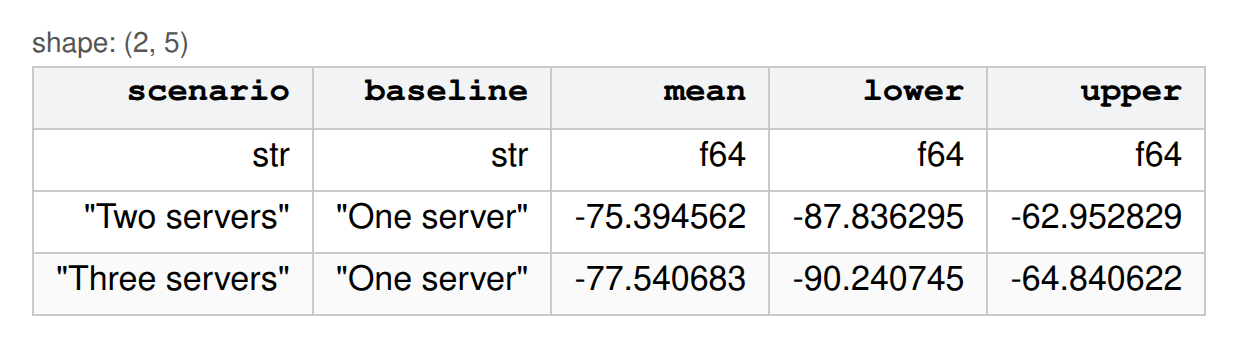
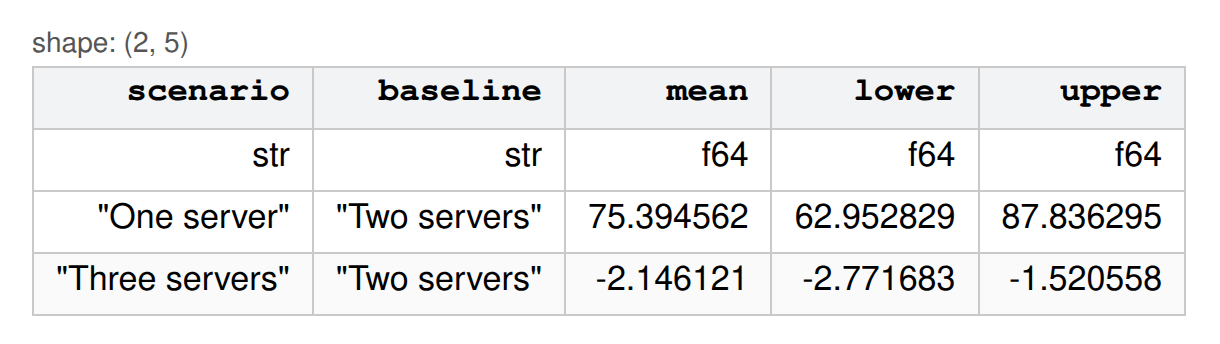
Apply the owner's answers to the core and machining videos
Core Part 6 now pairs against Two servers, reads the third server's
difference, and compares the paired and unpaired interval widths. The
core capture records the Check-in interval. The machining video states
its single routing, says what completed_at_close measures, shows
FlowSim's relocation interval against two each, and zooms the CNC
resource chart to minutes 250 to 400. A closing review checkpoint
found no new defects.

Claude-Session: https://claude.ai/code/session_01WVV6YrZfjab2pasYytB4Qi

diff --git a/manim/flowsim-core/flowsim_core.py b/manim/flowsim-core/flowsim_core.py
@@ -23,7 +23,9 @@ come from ../shared/explainer.py.
 """
 
 import ast
+import math
 import re
+import statistics
 from fractions import Fraction
 from pathlib import Path
 
@@ -63,6 +65,7 @@ from flowsim_video import (
     ROOT,
     CodeScene,
     SERVICE_ORANGE,
+    T95,
     WAIT_BLUE,
     call_keywords,
     close,
@@ -191,24 +194,38 @@ assert close(WAIT_MEAN, REPS["service_mean"], 1e-9)
 assert close(WAIT_LOWER, REPS["service_lower"], 1e-9)
 assert close(WAIT_UPPER, REPS["service_upper"], 1e-9)
 assert REPS["confidence"] == 0.95
+# The waits table also shows Check-in's interval.
+assert all(close(a, b, 1e-9) for a, b in zip(t_interval(REPS["checkin_runs"]), REPS["checkin_interval"]))
 
-# Paired comparison of one, two, and three Service servers (snippets/compare.py).
+# Paired comparison of one, two, and three Service servers against two (snippets/compare.py).
 COMPARE_SNIPPET = file_lines(SNIPPETS / "compare.py")
 COMPARED_SERVERS = [int(n) for n in re.findall(r"service_network\(service_capacity=(\d+)\)", "\n".join(COMPARE_SNIPPET))]
 assert COMPARED_SERVERS == [1, 2, 3]
+BASELINE = re.search(r'differences\(baseline="([^"]+)"\)', "\n".join(COMPARE_SNIPPET))[1]
+assert 'baseline="' + BASELINE + '",' in COMPARE_SNIPPET[-2]
 COMPARE = CAPTURED["compare"]
 SCENARIOS = list(COMPARE["runs"])
 assert SCENARIOS == ["One server", "Two servers", "Three servers"]
-assert COMPARE["same_seeds"] is True and COMPARE["baseline"] == ["One server"]
+assert COMPARE["same_seeds"] is True and COMPARE["baseline"] == [BASELINE] == ["Two servers"]
 MEANS = {}
 for name in SCENARIOS:
     MEANS[name] = t_interval(COMPARE["runs"][name])
     assert all(close(a, b, 1e-9) for a, b in zip(MEANS[name], COMPARE["means"][name]))
 DIFFERENCES = {}
-for name in SCENARIOS[1:]:
-    paired = [b - a for a, b in zip(COMPARE["runs"]["One server"], COMPARE["runs"][name])]
+for name in SCENARIOS:
+    if name == BASELINE:
+        continue
+    paired = [b - a for a, b in zip(COMPARE["runs"][BASELINE], COMPARE["runs"][name])]
     DIFFERENCES[name] = t_interval(paired)
     assert all(close(a, b, 1e-9) for a, b in zip(DIFFERENCES[name], COMPARE["differences"][name]))
+assert list(DIFFERENCES) == list(COMPARE["differences"])
+# The same runs treated as independent samples: a two-sample Student t interval with
+# 38 degrees of freedom. Both staffings see the same days, so pairing narrows it.
+_two, _three = COMPARE["runs"]["Two servers"], COMPARE["runs"]["Three servers"]
+UNPAIRED_HALF = T95[2 * DAYS - 2] * math.sqrt((statistics.variance(_two) + statistics.variance(_three)) / DAYS)
+PAIRED_HALF = (DIFFERENCES["Three servers"][2] - DIFFERENCES["Three servers"][1]) / 2
+assert PAIRED_HALF < UNPAIRED_HALF
+assert f"{UNPAIRED_HALF:.2f}" == "0.74" and f"{PAIRED_HALF:.2f}" == "0.63"
 # comparison.intervals() and differences() default to mean total wait, and differences()
 # subtracts the first named scenario (flowsim/comparison.py).
 _comparison = ast.parse((LIBRARY / "comparison.py").read_text())
@@ -220,8 +237,8 @@ for _node in ast.walk(_comparison):
         _defaults[_node.name] = {k: ast.literal_eval(v) for k, v in {**_positional, **_kwonly}.items() if v is not None}
 assert _defaults["intervals"]["metric"] == _defaults["differences"]["metric"] == "mean_total_wait"
 assert "self.baseline = next(iter(experiments))" in (LIBRARY / "comparison.py").read_text()
-# Two servers lower mean total wait on every day's pairing, so the interval sits below 0.
-assert DIFFERENCES["Two servers"][2] < 0
+# A third server lowers mean total wait, and its whole interval sits below 0.
+assert DIFFERENCES["Three servers"][2] < 0
 
 # The extension tour quotes README blocks that capture.py ran (load_captured checked
 # that each block is unchanged since).
@@ -740,24 +757,28 @@ class Part6Compare(CoreScene):
         self.say("intervals() reports mean total wait by default. Total wait adds a customer's waits at both stations.")
         table = self.code_and_table(lines, "manim/flowsim-core/snippets/compare.py", HERE, CAPTURED, "means", size=20, max_width=7.5)
         self.pause("means")
-        one, two = MEANS["One server"][0], MEANS["Two servers"][0]
-        self.say(f"One server averages {one:.1f} minutes of total wait, and two servers {two:.1f}.")
+        one, two, three = (MEANS[name][0] for name in SCENARIOS)
+        self.say(f"One server averages {one:.1f} minutes of total wait. Two servers average {two:.1f}, three {three:.1f}.")
         self.pause("means-read")
 
-        lines = code_lines_of(compare_lines, "paired = comparison.differences().select(", 7)
-        self.say(f"differences subtracts the first scenario, {SCENARIOS[0]}, within each day. baseline= names another.")
+        lines = code_lines_of(compare_lines, f'paired = comparison.differences(baseline="{BASELINE}").select(', 7)
+        self.say(f"differences subtracts the baseline, {BASELINE}, within each day. Without baseline=, it uses the first scenario.")
         table = self.code_and_table(lines, "manim/flowsim-core/snippets/compare.py", HERE, CAPTURED, "paired", size=20, max_width=9.5, drop=(table,))
         self.pause("paired")
-        self.say("A negative difference means less waiting than with one server.")
+        self.say("A negative difference means less waiting than with two servers.")
         self.pause("pairing")
-        mean, lower, upper = DIFFERENCES["Two servers"]
+        mean, lower, upper = DIFFERENCES["Three servers"]
         self.say(
-            f"Two servers change mean total wait by {signed(mean)} minutes. "
+            f"A third server changes mean total wait by {signed(mean)} minutes. "
             f"The {REPS['confidence']:.0%} CI is {signed(lower)} to {signed(upper)}.",
         )
         self.pause("paired-read")
+        self.say("Both staffings see the same busy and quiet days. Pairing cancels that shared noise.")
+        self.pause("shared-days")
+        self.say(f"Unpaired, these runs give a CI half-width of {UNPAIRED_HALF:.2f} minutes. Pairing narrows it to {PAIRED_HALF:.2f}.")
+        self.pause("paired-width")
 
-        self.say(f"comparison.viewer saves these intervals as one offline page. Both rows compare with {SCENARIOS[0]}, not with each other.")
+        self.say(f"comparison.viewer saves these intervals as one offline page. Both rows compare with {BASELINE}, not with each other.")
         self.clear_stage()
         self.panel = None
         self.band = None

diff --git a/manim/machining-line/machining_line.py b/manim/machining-line/machining_line.py
@@ -167,6 +167,15 @@ assert round(float(CNC_PART), 2) == 7.33 and round(float(CNC_WITH_FAILURES)) == 
 WITH_FAILURES = {**CAPACITY, "CNC": CNC_WITH_FAILURES}
 BOTTLENECK = min(WITH_FAILURES, key=WITH_FAILURES.get)
 readme_states("The CNC machines are the bottleneck")
+# Every blank takes one route, saw to pack: no branch sends a part elsewhere, and FlowSim
+# has no rework loops (README "Operations examples" and "Scope and limits").
+readme_states("every blank follows the same routing")
+readme_states("rework loops are not implemented")
+_line_text = "\n".join(LINE_CODE)
+assert _line_text.count("model.route(") == 1 and "model.branch(" not in _line_text
+# The CNC resource chart is captured zoomed to these minutes of day 1.
+CNC_WINDOW = CAPTURED["cnc_window"]
+assert CNC_WINDOW == [250, 400] and CNC_WINDOW[1] <= SHIFT
 assert BOTTLENECK == "CNC"
 assert RELEASED > max(WITH_FAILURES.values())
 
@@ -190,6 +199,12 @@ for name in SCENARIOS[1:]:
     assert all(close(a, b) for a, b in zip(GAINS[name], CAPTURED["gains"][name]))
 MOVE = paired("Five before Assembly", "Two each")
 NO_FAILURES = paired("Two each, no CNC failures", "Two each")
+# snippets/line.py also asks FlowSim for these pairings against two each.
+MOVED = CAPTURED["moved"]
+assert list(MOVED) == ["No buffers", "Five before Assembly", "Two each, no CNC failures"]
+assert all(close(a, b) for a, b in zip(MOVE, MOVED["Five before Assembly"]))
+assert all(close(a, b) for a, b in zip(NO_FAILURES, MOVED["Two each, no CNC failures"]))
+assert close(MOVED["No buffers"][0], -GAINS["Two each"][0])
 # README "A saturated machining line": two spaces in front of each station add more than ten
 # parts per shift relative to no buffers, moving those spaces in front of assembly changes
 # output by less than one part, and removing the CNC failures adds about as many parts again.
@@ -320,6 +335,8 @@ class Part1Line(CodeScene):
         self.pause("line")
         self.say("A station has identical servers and one line. CNC (computer numerical control) is automated cutting.")
         self.pause("station")
+        self.say("Every blank follows this one routing. No part is scrapped or reworked.")
+        self.pause("routing")
 
         lines = excerpt(LINE_CODE, "    blanks = model.source(", 12)
         self.say(f"A blank is released every {SOURCE['interarrival']} minutes, {RELEASED} in a {SHIFT}-minute shift.")
@@ -340,7 +357,7 @@ class Part1Line(CodeScene):
         self.pause("blocking")
         self.say("The saw never runs short of blanks, so the line is saturated.")
         self.pause("saturated")
-        self.say(f"completed_at_close counts parts done by minute {SHIFT}, starting empty. It measures capacity.")
+        self.say(f"completed_at_close counts parts done by minute {SHIFT}. It measures one shift's output from an empty line.")
         self.pause("end", hold=3.5)
 
 
@@ -381,7 +398,10 @@ class Part2Capacity(CodeScene):
         self.say('failure_clock="busy" counts only cutting time toward the next failure.')
         self.highlight(4)
         self.pause("clock")
-        self.say("Day 1 here uses two buffer spaces each. Black marks broken CNC machines and green blocked ones.")
+        self.say(
+            f"Minutes {CNC_WINDOW[0]} to {CNC_WINDOW[1]} of day 1, with two buffer spaces each. "
+            "Black marks broken CNC machines, green blocked ones.",
+        )
         shot = screenshot(HERE, CAPTURED, "resources_cnc", width=11.0, height=5.4)
         shot.move_to([0, CONTENT_Y - 0.2, 0])
         self.drop_code()
@@ -436,6 +456,11 @@ class Part3Buffers(CodeScene):
         )
         self.play(FadeIn(chart.interval(2, *OUTPUT["Five before Assembly"], PLAN_COLORS["Five before Assembly"])), run_time=0.6)
         self.pause("five")
+        lines = excerpt(file_lines(HERE / "snippets" / "line.py"), "moved = comparison.differences(", 9)
+        self.say('baseline="Two each" pairs each plan with two each, shift by shift.')
+        self.clear_stage()
+        self.code_and_table(lines, SNIPPET_NOTE, HERE, CAPTURED, "moved", size=20, max_width=8.0, side=True)
+        self.pause("moved")
 
         self.say(
             f"Buffers cut CNC blocked time from {percent(CNC_BLOCKED['No buffers'])} to {percent(CNC_BLOCKED['Two each'])}. "

diff --git a/manim/machining-line/capture.py b/manim/machining-line/capture.py
@@ -26,6 +26,8 @@ from capture_tools import (  # noqa: E402
 )
 
 OUT = HERE / "captured"
+# Minutes of day 1 that the CNC resource chart shows.
+CNC_WINDOW = (250, 400)
 SNIPPETS = HERE / "snippets"
 STATION_METRICS = [
     "utilization",
@@ -50,6 +52,7 @@ def main():
     comparison = line["comparison"]
     record_image("output", frame_png(line["output"], OUT / "output.png"))
     record_image("gains", frame_png(line["gains"], OUT / "gains.png"))
+    record_image("moved", frame_png(line["moved"], OUT / "moved.png"))
     numbers["scenarios"] = list(comparison.experiments)
     numbers["completed"] = {
         name: column(experiment.summary.sort("replication"), "completed_at_close")
@@ -57,6 +60,7 @@ def main():
     }
     numbers["output"] = {row["scenario"]: [row["mean"], row["lower"], row["upper"]] for row in line["output"].to_dicts()}
     numbers["gains"] = {row["scenario"]: [row["mean"], row["lower"], row["upper"]] for row in line["gains"].to_dicts()}
+    numbers["moved"] = {row["scenario"]: [row["mean"], row["lower"], row["upper"]] for row in line["moved"].to_dicts()}
     numbers["stations"] = {}
     for name, experiment in comparison.experiments.items():
         table = experiment.stations.sort("replication")
@@ -75,6 +79,10 @@ def main():
         def choose(page, station=station):
             page.select_option("#station-choice", station)
             page.wait_for_timeout(400)
+            # CNC's chart shows a window where both down and blocked spans appear.
+            if station == "CNC":
+                page.evaluate(f"Plotly.relayout('resources', {{'xaxis.range': {list(CNC_WINDOW)}}})")
+                page.wait_for_timeout(400)
 
         record_image(
             f"resources_{station.lower()}",
@@ -83,6 +91,7 @@ def main():
     page = ROOT / "output" / "machining" / "comparison.html"
     for index, name in enumerate(["comparison_means", "comparison_differences"]):
         record_image(name, shoot(page, OUT / f"{name}.png", selector=f"section >> nth={index}", viewport=(1000, 900)))
+    numbers["cnc_window"] = list(CNC_WINDOW)
     write_numbers(OUT, numbers)
 
 

diff --git a/manim/flowsim-core/capture.py b/manim/flowsim-core/capture.py
@@ -130,17 +130,22 @@ def main():
     full = experiment.intervals("mean_wait")
     service = full.filter(pl.col("station") == "Service").row(0, named=True)
     per_run = experiment.stations.filter(pl.col("station") == "Service").sort("replication")
+    # The waits table also shows Check-in's interval, so its runs are recorded too.
+    checkin = full.filter(pl.col("station") == "Check-in").row(0, named=True)
+    checkin_runs = experiment.stations.filter(pl.col("station") == "Check-in").sort("replication")
     numbers["replications"] = {
         "service_runs": column(per_run, "mean_wait"),
         "service_mean": service["mean"],
         "service_lower": service["lower"],
         "service_upper": service["upper"],
         "runs": service["runs"],
+        "checkin_runs": column(checkin_runs, "mean_wait"),
+        "checkin_interval": [checkin["mean"], checkin["lower"], checkin["upper"]],
         "confidence": service["confidence"],
         "seeds_distinct": len({run.seed for run in experiment.runs}),
     }
 
-    # Paired comparison of one, two, and three Service servers.
+    # Paired comparison of one, two, and three Service servers, against two.
     paired, _ = run_snippet(SNIPPETS / "compare.py")
     comparison = paired["comparison"]
     record_image("means", frame_png(paired["means"], OUT / "means.png"))

diff --git a/manim/shared/flowsim_video.py b/manim/shared/flowsim_video.py
@@ -65,7 +65,7 @@ HIGHLIGHT = ManimColor("#FFE9A8")
 MAX_CODE_LINES = 15
 # Student t quantiles for two-sided 95% intervals, keyed by degrees of freedom, from
 # scipy.stats.t.ppf(0.975, df). The videos recompute every interval from run values.
-T95 = {19: 2.093024054408263}
+T95 = {19: 2.093024054408263, 38: 2.0243941639119694}
 # Colors the FlowSim viewers use for waiting and service, kept so a drawn chart and a
 # screenshot of the viewer agree.
 WAIT_BLUE = ManimColor("#0072B2")

diff --git a/manim/flowsim-core/snippets/compare.py b/manim/flowsim-core/snippets/compare.py
@@ -18,11 +18,14 @@ means = comparison.intervals().select(
     "lower",
     "upper",
 )
-paired = comparison.differences().select(
+paired = comparison.differences(baseline="Two servers").select(
     "scenario",
     "baseline",
     "mean",
     "lower",
     "upper",
 )
-comparison.viewer("output/staffing/comparison.html")
+comparison.viewer(
+    path="output/staffing/comparison.html",
+    baseline="Two servers",
+)

diff --git a/manim/machining-line/snippets/line.py b/manim/machining-line/snippets/line.py
@@ -10,6 +10,15 @@ gains = comparison.differences(
     "lower",
     "upper",
 )
+moved = comparison.differences(
+    metric="completed_at_close",
+    baseline="Two each",
+).select(
+    "scenario",
+    "mean",
+    "lower",
+    "upper",
+)
 output = comparison.intervals(metric="completed_at_close").select(
     "scenario",
     "mean",

diff --git a/manim/machining-line/README.md b/manim/machining-line/README.md
@@ -8,11 +8,11 @@ from the project root).
 | Scene | Part | Starts at slide | Source |
 |---|---|---|---|
 | `Part1Line` | Draws the five-station line (plus a source) and reads the blank release and the saw's zero buffer from the code | 1 | `examples/operations.py` (`machining_line`), README "A saturated machining line" |
-| `Part2Capacity` | Computes rough capacity per station, then adds the lunch staffing and the CNC failures, with the saved viewer's resource charts | 10 | `examples/operations.py`, `snippets/line.py` |
-| `Part3Buffers` | Compares the buffer plans by parts per shift and by CNC blocking, with the paired gains table | 21 | `examples/operations.py` (`BUFFER_PLANS`, `line_study`), `snippets/line.py` |
-| `Part4Failures` | Adds the no-failure scenario, the CNC down share, and the saved comparison viewer | 28 | `snippets/line.py`, README "A saturated machining line" |
+| `Part2Capacity` | Computes rough capacity per station, then adds the lunch staffing and the CNC failures, with the saved viewer's resource charts | 11 | `examples/operations.py`, `snippets/line.py` |
+| `Part3Buffers` | Compares the buffer plans by parts per shift and by CNC blocking, with the relocation and paired gains tables | 22 | `examples/operations.py` (`BUFFER_PLANS`, `line_study`), `snippets/line.py` |
+| `Part4Failures` | Adds the no-failure scenario, the CNC down share, and the saved comparison viewer | 30 | `snippets/line.py`, README "A saturated machining line" |
 
-The deck has 32 slides. The slide numbers change if a part gains or loses a break. Every displayed number is
+The deck has 34 slides. The slide numbers change if a part gains or loses a break. Every displayed number is
 asserted against the sources above when the module is imported.
 
 ## Plan
@@ -30,7 +30,7 @@ approved before the build.
 | `lambda rng:` | A function FlowSim calls with the run's random generator to draw each time (the saw takes 2.5 to 3.5 minutes) | examples/operations.py | 1 |
 | buffer | The waiting spaces in front of a station, apart from its servers | README "Finite buffers and blocking" | 1 |
 | `external_overflow="wait"`, raw stock | Released blanks that find the saw busy wait outside the line | README "A saturated machining line" | 1 |
-| saturated | The line never runs out of blanks, so its output measures capacity | README "A saturated machining line" | 1 |
+| saturated | The line never runs out of blanks, so its output measures one shift's output from an empty line | README "A saturated machining line" | 1 |
 | `completed_at_close` | Parts finished by the end of the 480-minute shift, starting from an empty line | README metric table | 1 |
 | rough capacity | Shift minutes times average servers divided by mean minutes per part, ignoring variability and blocking | computed here, not stated in the README | 2 |
 | bottleneck | The station with the lowest rough capacity | README "A saturated machining line" | 2 |
@@ -49,9 +49,9 @@ Numbers come from `captured/numbers.json`, which `capture.py` writes by running
 
 | Scene | Shows | Numbers and their check | Breaks |
 |---|---|---|---|
-| `Part1Line` | The five-station line (plus a source) drawn, and the blanks source and saw read from `machining_line` | release every 2 minutes, saw buffer 0 (parsed from `examples/operations.py`); 240 blanks per shift (computed); saw occupied all shift (captured utilization, asserted at least 0.999) | after the line, the release, the buffer, raw stock, and the output measure |
-| `Part2Capacity` | A bar chart of rough capacity per station, then the lunch staffing and the CNC failures read from the code, with the saved viewer's resource charts | each station's mean time (parsed); 1.875 average fitters (computed from the staffing list and asserted against the captured `mean_scheduled_servers`); CNC 6 × (1 + 20/90) minutes per part and about 131 parts (computed) | after the chart, lunch, the fitters chart, each failure step, the CNC chart, the lunch-adjusted chart, and the CNC cost |
-| `Part3Buffers` | `BUFFER_PLANS`, an interval chart of parts per shift by plan, the CNC blocked share by plan, and the paired gains table | plan means and 95% limits (recomputed from 20 runs and asserted); the gain over no buffers (paired, recomputed, asserted, and checked against README "more than ten"); the move to assembly (paired, checked against README "less than one part"); CNC blocked share (mean of captured run values) | after the plans, blocking, each chart step, and the table |
+| `Part1Line` | The five-station line (plus a source) drawn, and the blanks source and saw read from `machining_line` | release every 2 minutes, saw buffer 0 (parsed from `examples/operations.py`); 240 blanks per shift (computed); saw occupied all shift (captured utilization, asserted at least 0.999); one routing with no rework (README "every blank follows the same routing" and "rework loops are not implemented", and one `route` call with no `branch` in `machining_line`) | after the line, the station, the routing, the release, the buffer, raw stock, and the output measure |
+| `Part2Capacity` | A bar chart of rough capacity per station, then the lunch staffing and the CNC failures read from the code, with the saved viewer's resource charts | each station's mean time (parsed); 1.875 average fitters (computed from the staffing list and asserted against the captured `mean_scheduled_servers`); CNC 6 × (1 + 20/90) minutes per part and about 131 parts (computed); the CNC chart's minutes 250 to 400 (set in `capture.py` and read from the capture) | after the chart, lunch, the fitters chart, each failure step, the CNC chart, the lunch-adjusted chart, and the CNC cost |
+| `Part3Buffers` | `BUFFER_PLANS`, an interval chart of parts per shift by plan, the CNC blocked share by plan, and the paired gains table | plan means and 95% limits (recomputed from 20 runs and asserted); the gain over no buffers (paired, recomputed, asserted, and checked against README "more than ten"); the move to assembly (paired, recomputed, asserted against FlowSim's `differences(baseline="Two each")` table, and checked against README "less than one part"); CNC blocked share (mean of captured run values) | after the plans, blocking, each chart step, the relocation table, and the gains table |
 | `Part4Failures` | The no-failure scenario added to the chart, the CNC down share, and the saved comparison viewer | the no-failure gain over two each (paired, recomputed, and checked against README "about as many parts again"); CNC down share (mean of captured run values) | after the added row, the comparison, the down share, and the viewer |
 
 Decision taken in the plan: the rough capacity chart is this video's own hand calculation
@@ -126,6 +126,12 @@ disposition. Finding numbers are Codex's. Findings 1, 2, and 46 span all four vi
 | R2 P10 | Ragged baselines on axis labels look careless, which is the same defect I1-I23 fixed in the core video only. | Accepted. Tick labels and the amplification legend top-aligned; the job and ratio columns bottom-aligned. |
 | R2 P12 | The ≈ glyph renders with a visibly double space on each side, unlike the source text. | Accepted. 'A 6-minute part costs 6 × (1 + 20/90), about 7.3 machine-minutes.' |
 
-After these changes, `check` passed for all four videos, every part was re-rendered at final quality, the final sheets were read again, and `check_deck.py` was rerun.
+| Owner | completed_at_close "measures capacity" overstated it, since each shift starts empty (I1-Q2, I2-Q2). | Done. The caption says "It measures one shift's output from an empty line", and the project README now says the same. |
+| Owner | State that every blank follows one routing with no scrap or rework (P2-Q2). | Done. A Part 1 caption, asserted against the README and the model code. |
+| Owner | The relocation interval came from the scene's own t interval (R2 I9). | Done. `snippets/line.py` adds `differences(baseline="Two each")`; Part 3 shows its table, and the scene asserts its intervals against it. |
+| Owner | The CNC resource chart was too dense to read (R2 I10). | Done. `capture.py` zooms it to minutes 250 to 400, and the caption names the window. |
+| Owner | The comparison viewer called parts "customers" twice, in the label and in the unit (S1-Q1, P1-Q2, I1-Q3). | Done in part. `flowsim/results.py` now gives counts the unit "count"; the label keeps FlowSim's word "customers", which Part 1 defines as one blank. |
+
+After the round 2 changes, `check` passed for all four videos, every part was re-rendered at final quality, the final sheets were read again, and `check_deck.py` was rerun. The owner rows were answered after the loop; their check renders passed, and the closing checkpoint read them.
 
 Rows marked R1 and R2 come from rounds 1 and 2 of the review loop in `review-loop/2026-10-24-flowsim-teaching-videos/` (snapshots a6e233f0cd1d and b951369bd929), whose ids are the reviewers' (S student, I instructor, P practitioner, C Codex correctness). The loop's `progress.md` records each verification.

diff --git a/manim/flowsim-core/README.md b/manim/flowsim-core/README.md
@@ -12,10 +12,10 @@ root).
 | `Part3Tables` | Shows the customers, visits, stations, and summary tables as Polars displays them, and matches them to the hand values | 16 | `snippets/queue.py`, README "Results" |
 | `Part4Viewer` | Shows the saved offline viewer (station table, queue chart, customer 3's timeline) and the exported files | 23 | `snippets/queue.py`, README "Results" |
 | `Part5Replications` | Runs 20 days of the two-stage network and builds a 95% confidence interval for the Service mean wait | 30 | `snippets/replications.py`, README "Replications and scenario comparisons" |
-| `Part6Compare` | Compares one, two, and three Service servers on common seeds, with paired differences and the comparison viewer | 38 | `snippets/compare.py`, README same section |
-| `Part7Extensions` | Tours branches, types, schedules, buffers, priorities and patience, failures, and stock points through README blocks | 46 | README "Model features" |
+| `Part6Compare` | Compares one, two, and three Service servers on common seeds, with paired differences against two servers and the comparison viewer | 38 | `snippets/compare.py`, README same section |
+| `Part7Extensions` | Tours branches, types, schedules, buffers, priorities and patience, failures, and stock points through README blocks | 48 | README "Model features" |
 
-The deck has 60 slides. The slide numbers change if a part gains or loses a break. Every displayed number is
+The deck has 62 slides. The slide numbers change if a part gains or loses a break. Every displayed number is
 asserted against the sources above when the module is imported.
 
 ## Plan
@@ -73,8 +73,8 @@ files and README blocks; `flowsim_core.py` asserts each one as listed.
 | `Part2Hand` | A hand Gantt chart of three customers, the waiting-line step chart, and the busy server bar | waits 0, 1, 2; queue area 3 over 7 minutes; busy 6 of 7 (recomputed, then asserted against README "For maintainers" and the captured run) | after arrivals, service, waits, the queue, and utilization |
 | `Part3Tables` | The four tables as Polars displays them, each with its `select` code | waits, flow times, mean queue 3/7, utilization 6/7, throughput 3/7 (captured, asserted equal to the hand values) | one per table, and at the match |
 | `Part4Viewer` | `viewer` and `export` code, then viewer screenshots (station table, queue chart, customer 3's timeline) and the exported file list | customer 3's flow time 4 (captured, asserted against the hand chart) | one per screenshot |
-| `Part5Replications` | `experiment` code, a dot plot of the 20 days' Service mean waits, and the interval table | 20 runs, the mean and 95% limits (recomputed from the 20 run values with t = 2.093 and asserted against the library) | after the code, the dots, the interval, and the scope note |
-| `Part6Compare` | `compare` code, the scenario means, and the paired differences from the saved comparison viewer | scenario means and paired differences with limits (recomputed from per-day values and asserted); same seeds in every scenario (asserted) | after the code, the means, and the differences |
+| `Part5Replications` | `experiment` code, a dot plot of the 20 days' Service mean waits, and the interval table | 20 runs, the mean and 95% limits for Service and for Check-in, which the interval table also shows (recomputed from the 20 run values with t = 2.093 and asserted against the library) | after the code, the dots, the interval, and the scope note |
+| `Part6Compare` | `compare` code, the scenario means, the paired differences against Two servers, and the saved comparison viewer | scenario means and paired differences with limits (recomputed from per-day values and asserted); baseline parsed from the snippet and asserted against the capture; same seeds in every scenario (asserted); unpaired half-width 0.74 (two-sample t with 38 degrees of freedom, t = 2.024) against paired 0.63 (asserted narrower) | after the code, the means, the differences, the shared days, the two widths, and the viewer |
 | `Part7Extensions` | One README excerpt per extension (branches, types, schedules, buffers, priorities and abandonment, failures, stock points), each from a block that `capture.py` runs | none | one per extension, and the closing rule |
 
 Decisions taken in the plan: the hand-timing part comes before the tables so the tables
@@ -153,6 +153,10 @@ disposition. Finding numbers are Codex's. Findings 1, 2, and 46 span all four vi
 | R2 C3 | HTML remains unexpanded, and the CSV expansion omits "values". | Accepted. 'hypertext markup language (HTML)' and 'comma-separated values (CSV)'. |
 | R2 C4 | The new qualification correctly states the behavior but introduces "preempting" without a gloss for the undergraduate audience. | Accepted. Same fix as S3. |
 
-After these changes, `check` passed for all four videos, every part was re-rendered at final quality, the final sheets were read again, and `check_deck.py` was rerun.
+| Owner | Pair against Two servers rather than One server, where pairing barely narrowed the interval (I1-Q1, P1-Q4, I2-Q1). | Done. `snippets/compare.py` sets `baseline="Two servers"` for `differences` and the viewer; Part 6 reads the third server's −2.1 minutes (95% CI −2.8 to −1.5) and states the unpaired and paired half-widths, 0.74 and 0.63. |
+| Owner | Record the Check-in interval that the waits table shows (C1-Q1). | Done. `capture.py` records Check-in's runs and interval, and the module asserts them. |
+| Owner | The timeline's rotated "Station" title touched its tick label (I1-Q3). | Done in `flowsim/viewer.html` (`automargin` and a 12-pixel standoff), then recaptured. |
+
+After the round 2 changes, `check` passed for all four videos, every part was re-rendered at final quality, the final sheets were read again, and `check_deck.py` was rerun. The owner rows were answered after the loop; their check renders passed, and the closing checkpoint read them.
 
 Rows marked R1 and R2 come from rounds 1 and 2 of the review loop in `review-loop/2026-10-24-flowsim-teaching-videos/` (snapshots a6e233f0cd1d and b951369bd929), whose ids are the reviewers' (S student, I instructor, P practitioner, C Codex correctness). The loop's `progress.md` records each verification.
